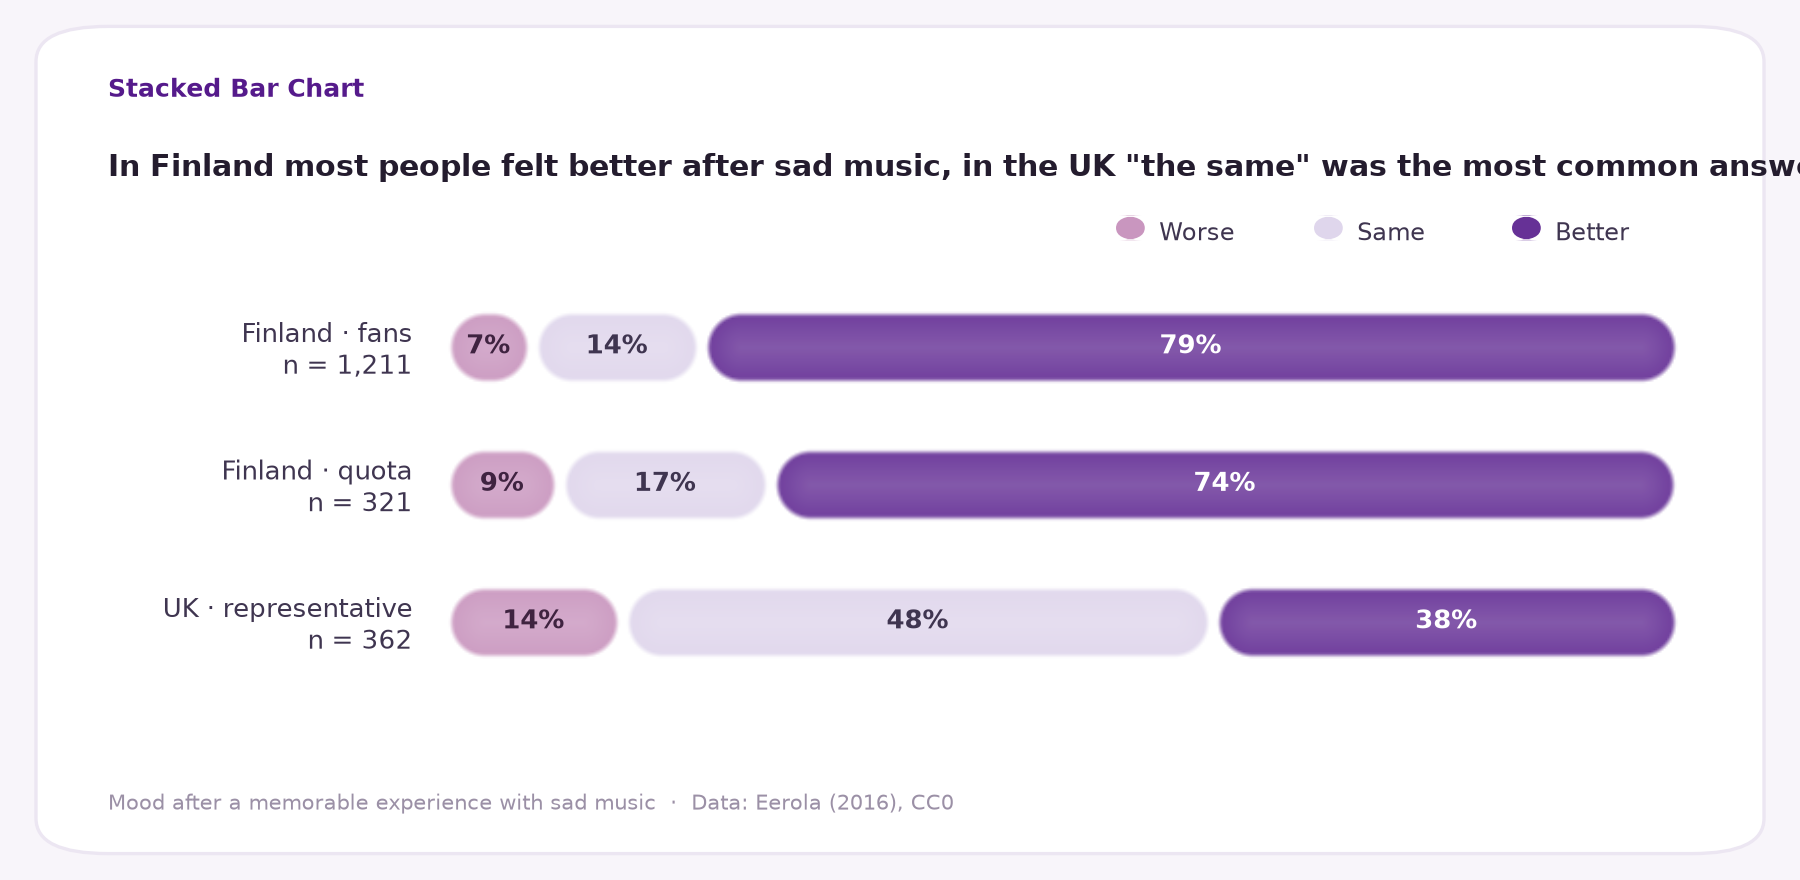
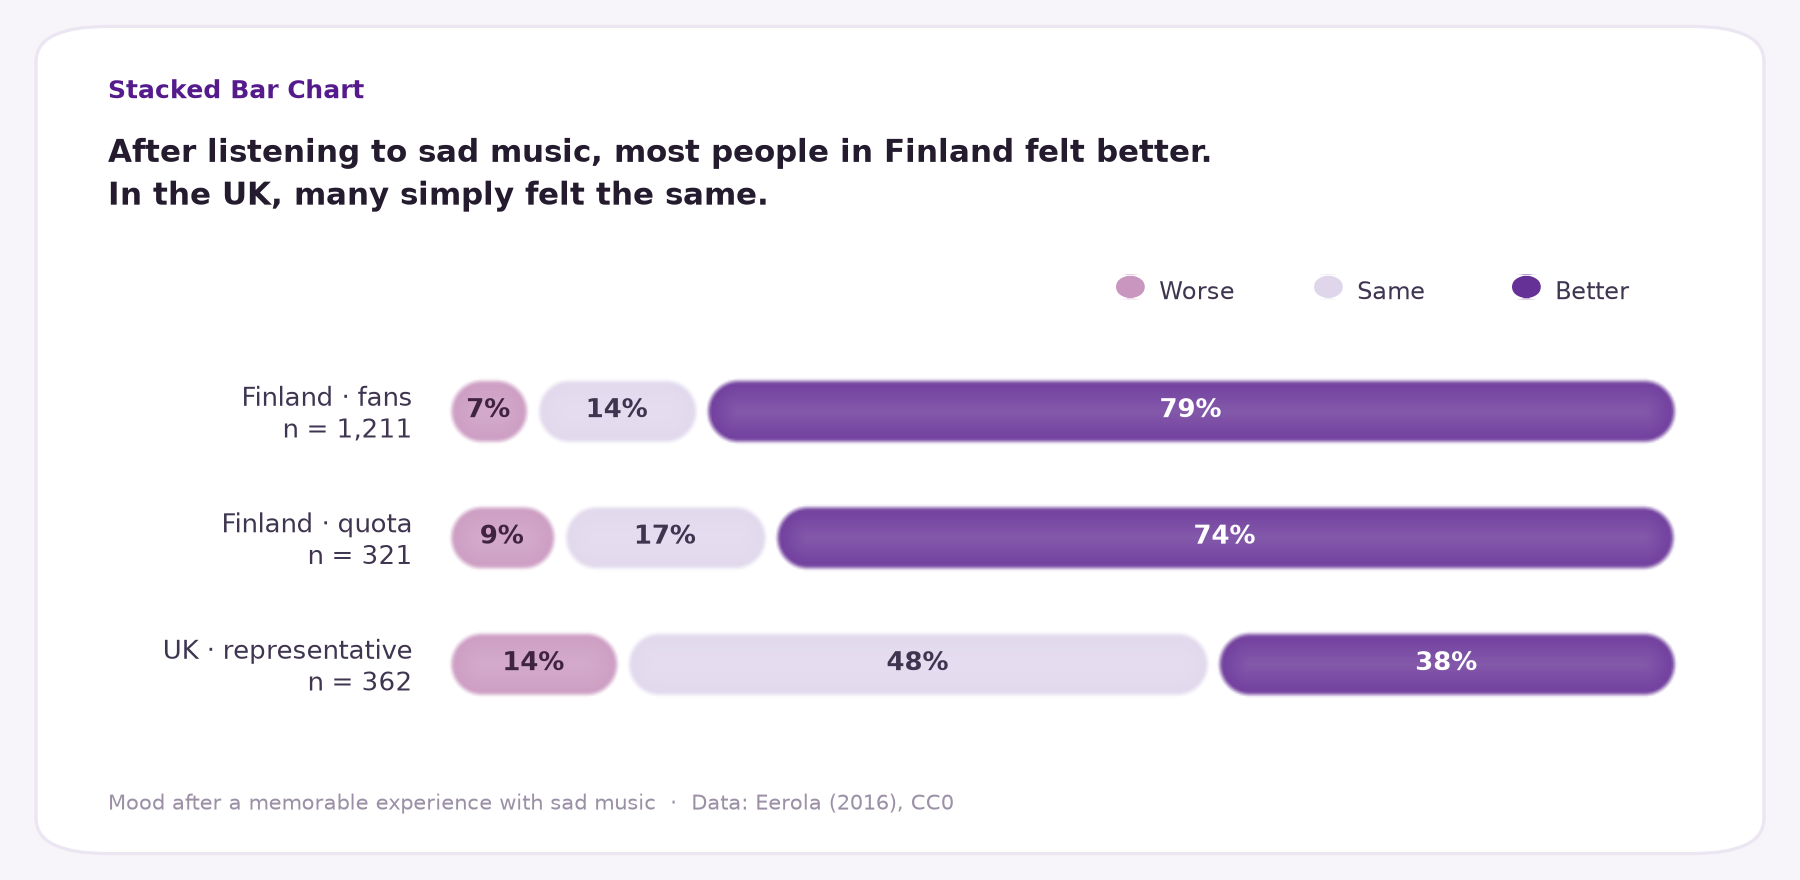
Add first chart with explanation to README

diff --git a/src/visualize.py b/src/visualize.py
@@ -3,6 +3,8 @@
 Run from the project folder (after analysis.py):  python src/visualize.py
 """
 
+import textwrap
+
 import matplotlib.pyplot as plt
 import numpy as np
 import pandas as pd
@@ -44,12 +46,14 @@ def new_card(width=9, height=4.4):
 
 def add_titles(fig, kind, title, note):
     """Small coloured chart type, the title (the finding) and a note with the source at the bottom."""
-    fig.text(0.06, 0.89, kind, color=PURPLE, fontsize=9, fontweight="bold")
-    fig.text(0.06, 0.80, title, color=INK, fontsize=10.8, fontweight="bold")
+    fig.text(0.06, 0.91, kind, color=PURPLE, fontsize=9, fontweight="bold", va="top")
+    # long titles go onto a new line instead of being cut off ("\n" in the title = my own line break)
+    title = "\n".join(textwrap.fill(line, width=70) for line in title.split("\n"))
+    fig.text(0.06, 0.85, title, color=INK, fontsize=11, fontweight="bold", va="top", linespacing=1.4)
     fig.text(0.06, 0.08, f"{note}  ·  {SOURCE}", color=MUTED, fontsize=7.5)
 
 
-def add_legend(fig, x=0.62, y=0.727):
+def add_legend(fig, x=0.62, y=0.66):
     """Round colour dots with Worse, Same, Better."""
     for i, (mood, color) in enumerate(COLORS.items()):
         dot_x = x + i * 0.11
@@ -100,7 +104,7 @@ def chart_mood_by_sample():
     n = pd.read_csv(RESULTS_DIR / "02_moodchange_by_sample_n.csv", index_col=0).loc["All"]
 
     fig = new_card()
-    box = [0.24, 0.2, 0.7, 0.5]                     # where the bars are: left, bottom, width, height
+    box = [0.24, 0.16, 0.7, 0.46]                    # where the bars are: left, bottom, width, height
     ax = fig.add_axes(box)
     ax.set_zorder(5)
     ax.patch.set_alpha(0)
@@ -128,8 +132,7 @@ def chart_mood_by_sample():
         spine.set_visible(False)
     ax.tick_params(left=False, labelsize=9.5, labelcolor=SOFT_INK)
 
-    add_titles(fig, "Stacked Bar Chart",
-               'In Finland most people felt better after sad music, in the UK "the same" was the most common answer',
+    add_titles(fig, "Stacked Bar Chart", "After listening to sad music, most people in Finland felt better.\nIn the UK, many simply felt the same.",
                "Mood after a memorable experience with sad music")
     add_legend(fig)
     save(fig, "01_mood_by_sample")

diff --git a/README.md b/README.md
@@ -91,7 +91,9 @@ The full analysis and my conclusion are in [`notebooks/03_analysis.ipynb`](noteb
 
 ![Mood after sad music per sample](figures/01_mood_by_sample.png)
 
-More charts will follow step by step.
+This chart shows how people felt after a memorable experience with sad music. In both Finnish samples, about three out of four people felt better afterwards. In the UK it was only 38 %, and almost half felt the same as before. Only a few people felt worse, and this was true in all three samples.
+
+More charts will follow step by step, and I will sum them up here once they are done.
 
 ### Limitations
 
